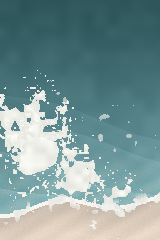
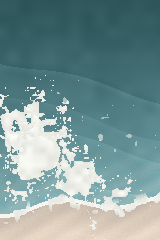
9054 v8: foam fades out before reaching the deep water, top stays clean

diff --git a/9054/index.html b/9054/index.html
@@ -186,7 +186,7 @@ function frame(ts) {
         for (let fi = 0; fi < fronts.length; fi++) {
           const fy = frontY(fronts[fi], x, t);
           const dd = Math.abs(y - fy);
-          if (dd < 7) {
+          if (dd < 7 && fy > 45) {
             const k = (1 - dd / 7) * (0.5 + fi * 0.16);
             // bright crest line with soft shadow on the seaward side
             const lift = y < fy ? -7 * k : 11 * k;
@@ -252,7 +252,9 @@ function frame(ts) {
           // foam slightly shadowed in creases (bub high = crease)
           const shade = 228 + (1 - bub / Math.max(0.001, thresh)) * 27;
           const wh = Math.min(255, shade);
-          const op = Math.min(1, density * 1.5 + 0.25);
+          // keep the deep water clean: fade foam out toward the top
+          const topMask = py < 55 ? Math.max(0, (py - 25) / 30) : 1;
+          const op = Math.min(1, density * 1.5 + 0.25) * topMask;
           d[i] = d[i] * (1 - op) + wh * op;
           d[i+1] = d[i+1] * (1 - op) + wh * op;
           d[i+2] = d[i+2] * (1 - op) + (wh - 5) * op;
